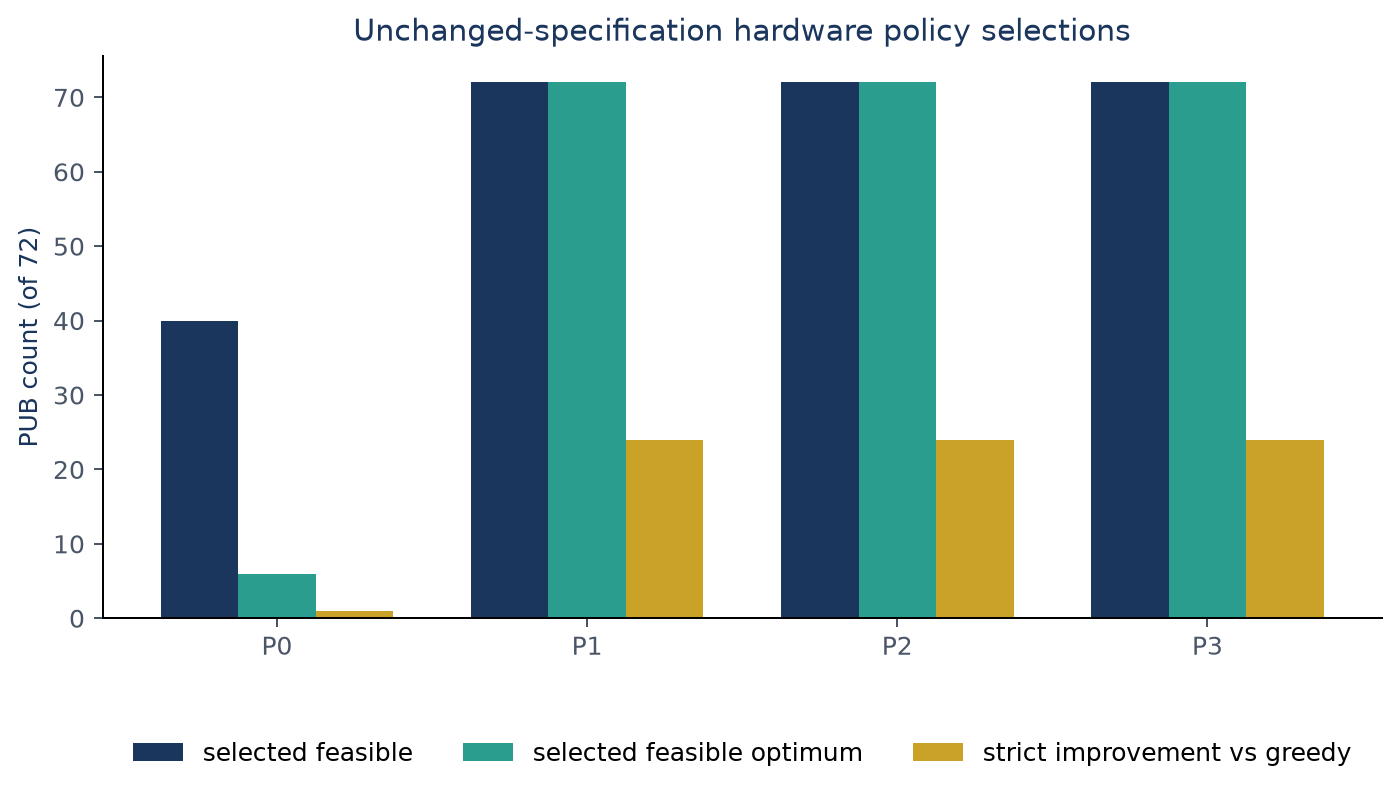
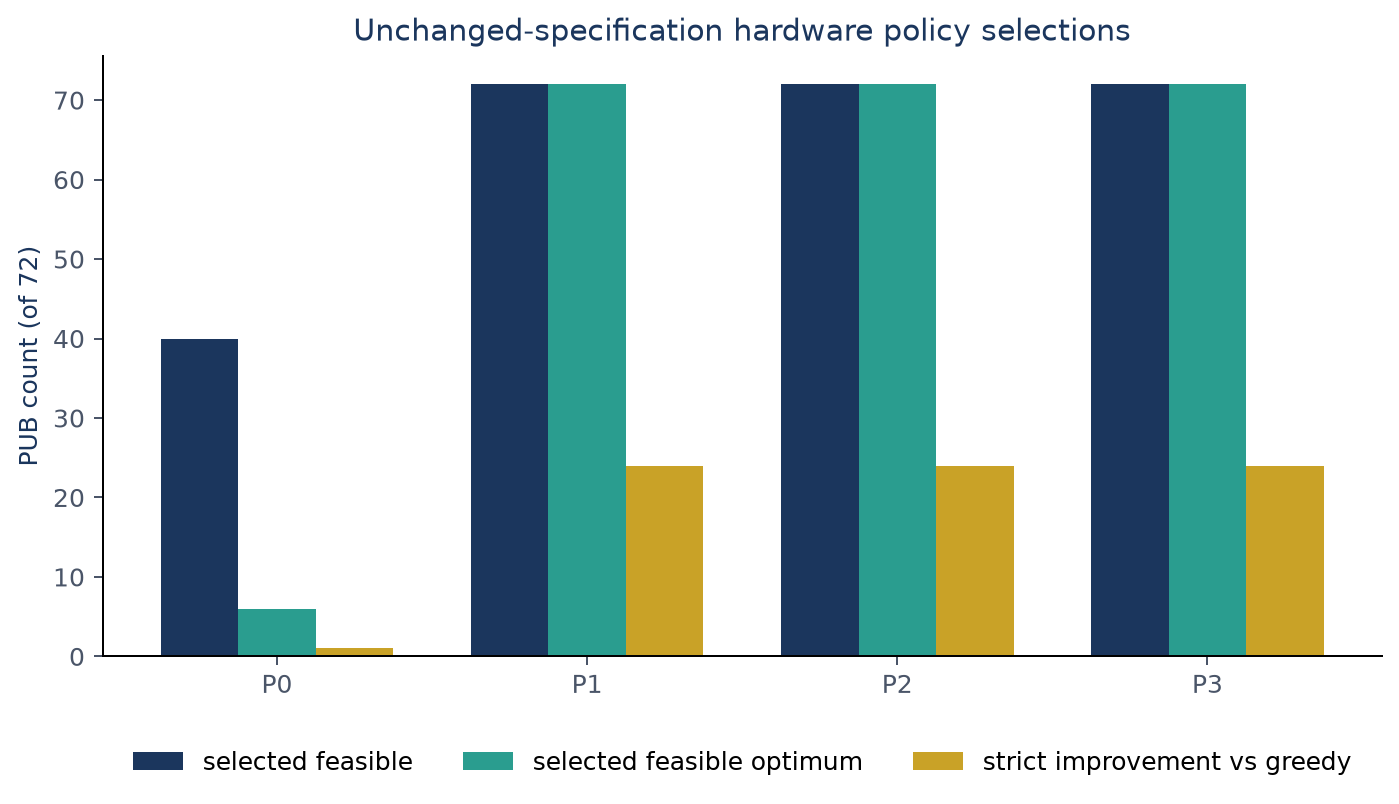
Move the policy-selection legend below the x-axis so it no longer overlaps the P1 bars.

diff --git a/tools/publication/figures.py b/tools/publication/figures.py
@@ -89,7 +89,7 @@ def policy_panel(pubs: list[dict], path: Path) -> None:
     ax.set_xticks(list(x), policies)
     ax.set_ylabel("PUB count (of 72)")
     ax.set_title("Unchanged-specification hardware policy selections")
-    ax.legend(frameon=False, loc="upper center", bbox_to_anchor=(0.5, -0.18), ncol=3)
+    ax.legend(frameon=False, loc="upper center", bbox_to_anchor=(0.5, -0.12), ncol=3)
     _style(ax)
     fig.tight_layout()
     fig.savefig(path.with_suffix(".svg"), bbox_inches="tight")
